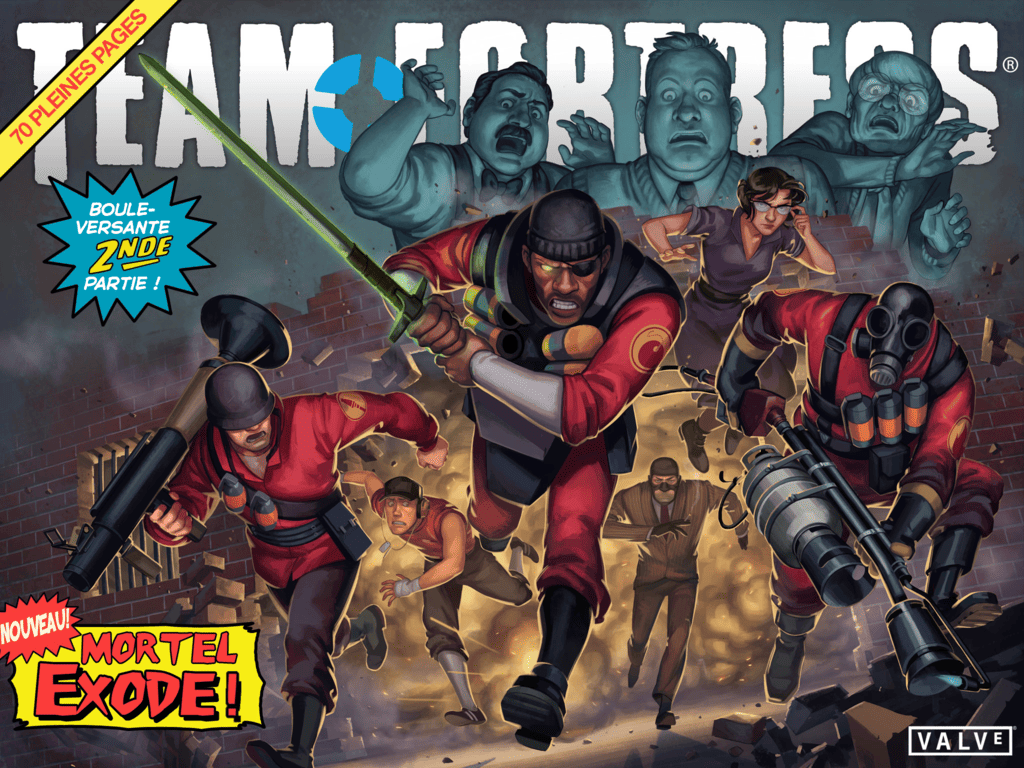
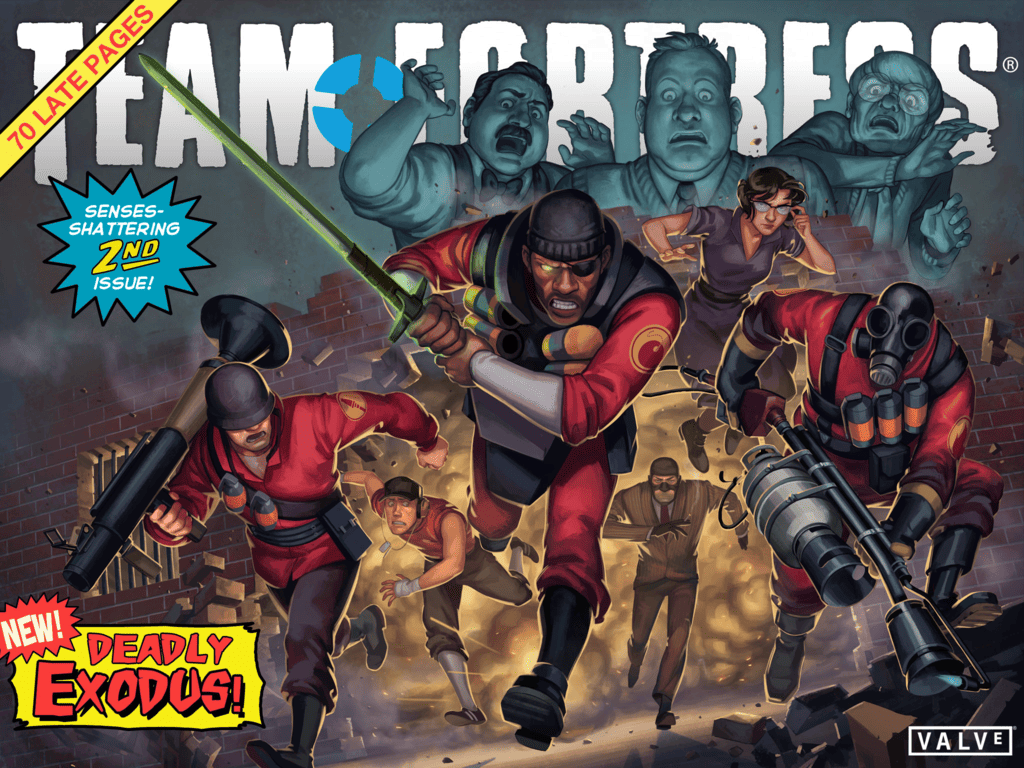
Added some covers, removed unused css file.

diff --git a/scripts/language-selector.js b/scripts/language-selector.js
@@ -88,6 +88,37 @@ document.addEventListener("DOMContentLoaded", function () {
         }
     }
 
+    function updateCovers(lang) {
+        const covers = {
+            tf00Cover: "tf00",
+            tf01Cover: "tf01",
+            tf02Cover: "tf02",
+        };
+    
+        for (const [imgId, comicId] of Object.entries(covers)) {
+            const img = document.getElementById(imgId);
+            if (!img) continue;
+    
+            // chemin de ton image traduite
+            let newSrc = `/comics/covers/${comicId}/${comicId}${lang}_cover.png`;
+    
+            // Vérifie si l’image existe, sinon fallback EN
+            fetch(newSrc, { method: "HEAD" })
+                .then(res => {
+                    if (res.ok) {
+                        img.src = newSrc;
+                    } else {
+                        img.src = `/comics/covers/${comicId}/${comicId}tf00_cover.png`;
+                    }
+                })
+                .catch(() => {
+                    img.src = `/comics/covers/${comicId}/${comicId}EN_cover.png`;
+                });
+        }
+    }
+    
+
+    //Handling the language selector button
     function unwrapSelector() {
         container.style.pointerEvents = "none";
         setTimeout(() => container.style.pointerEvents = "auto", 200);
